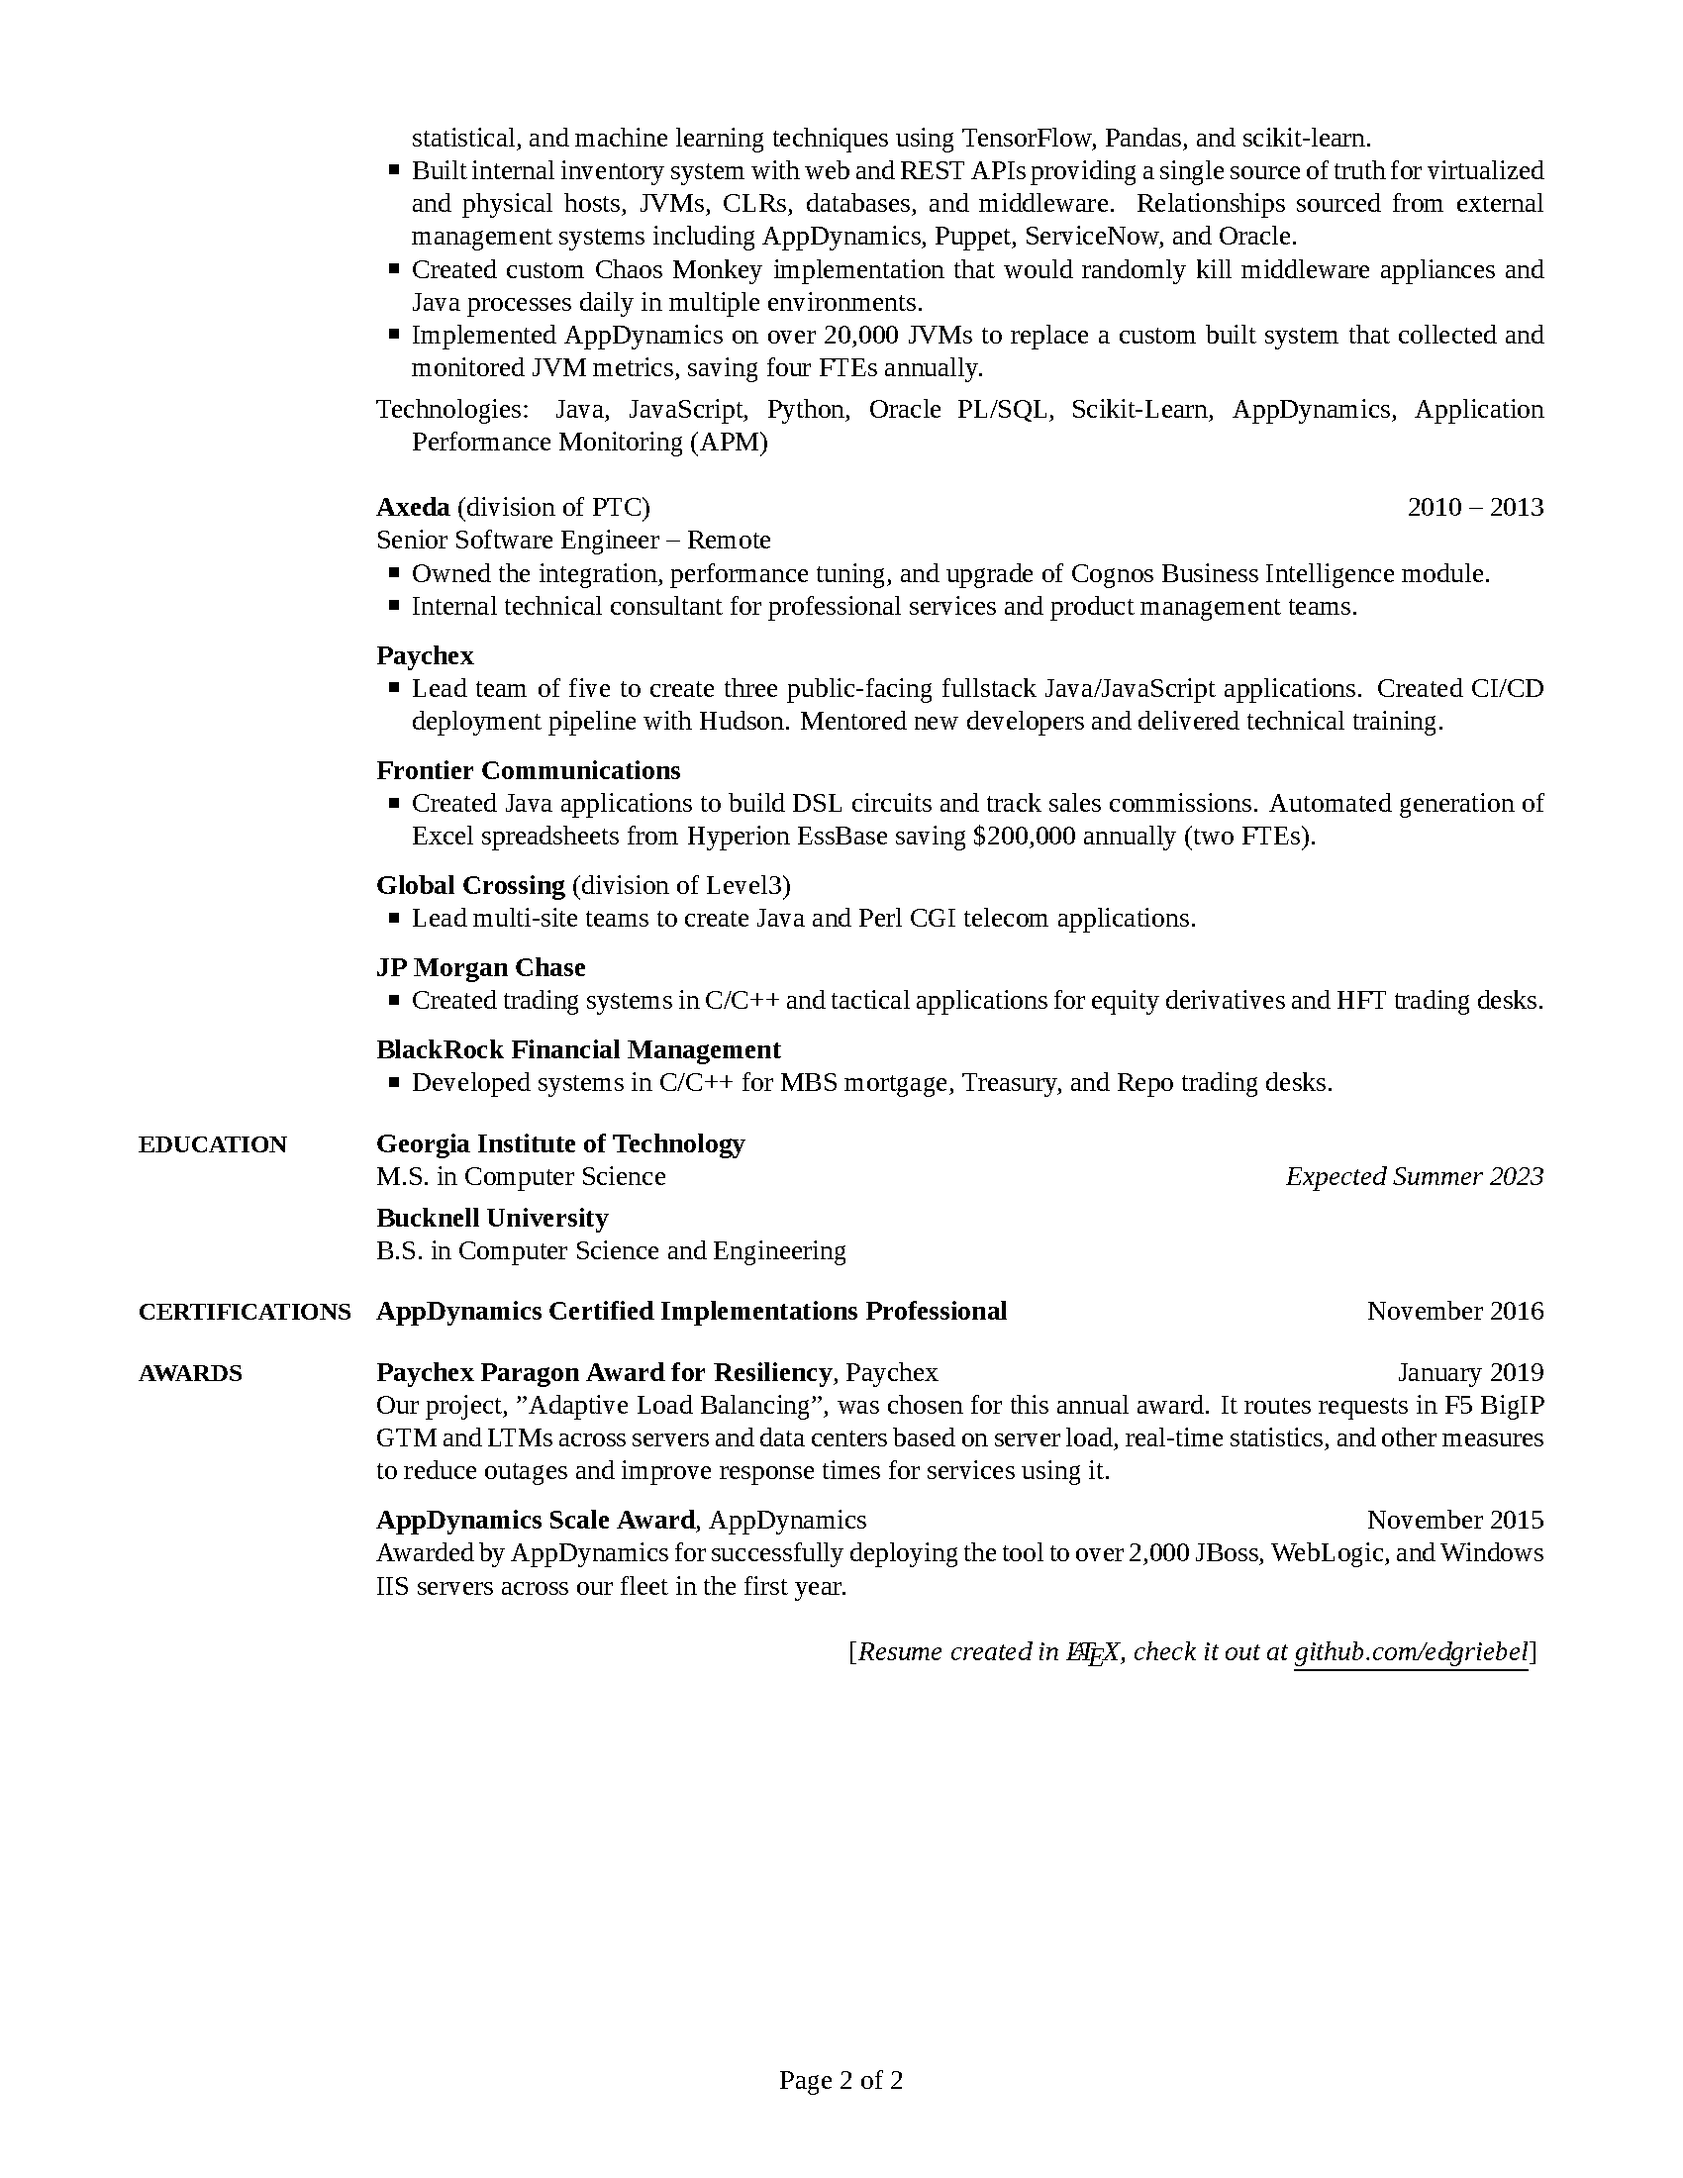
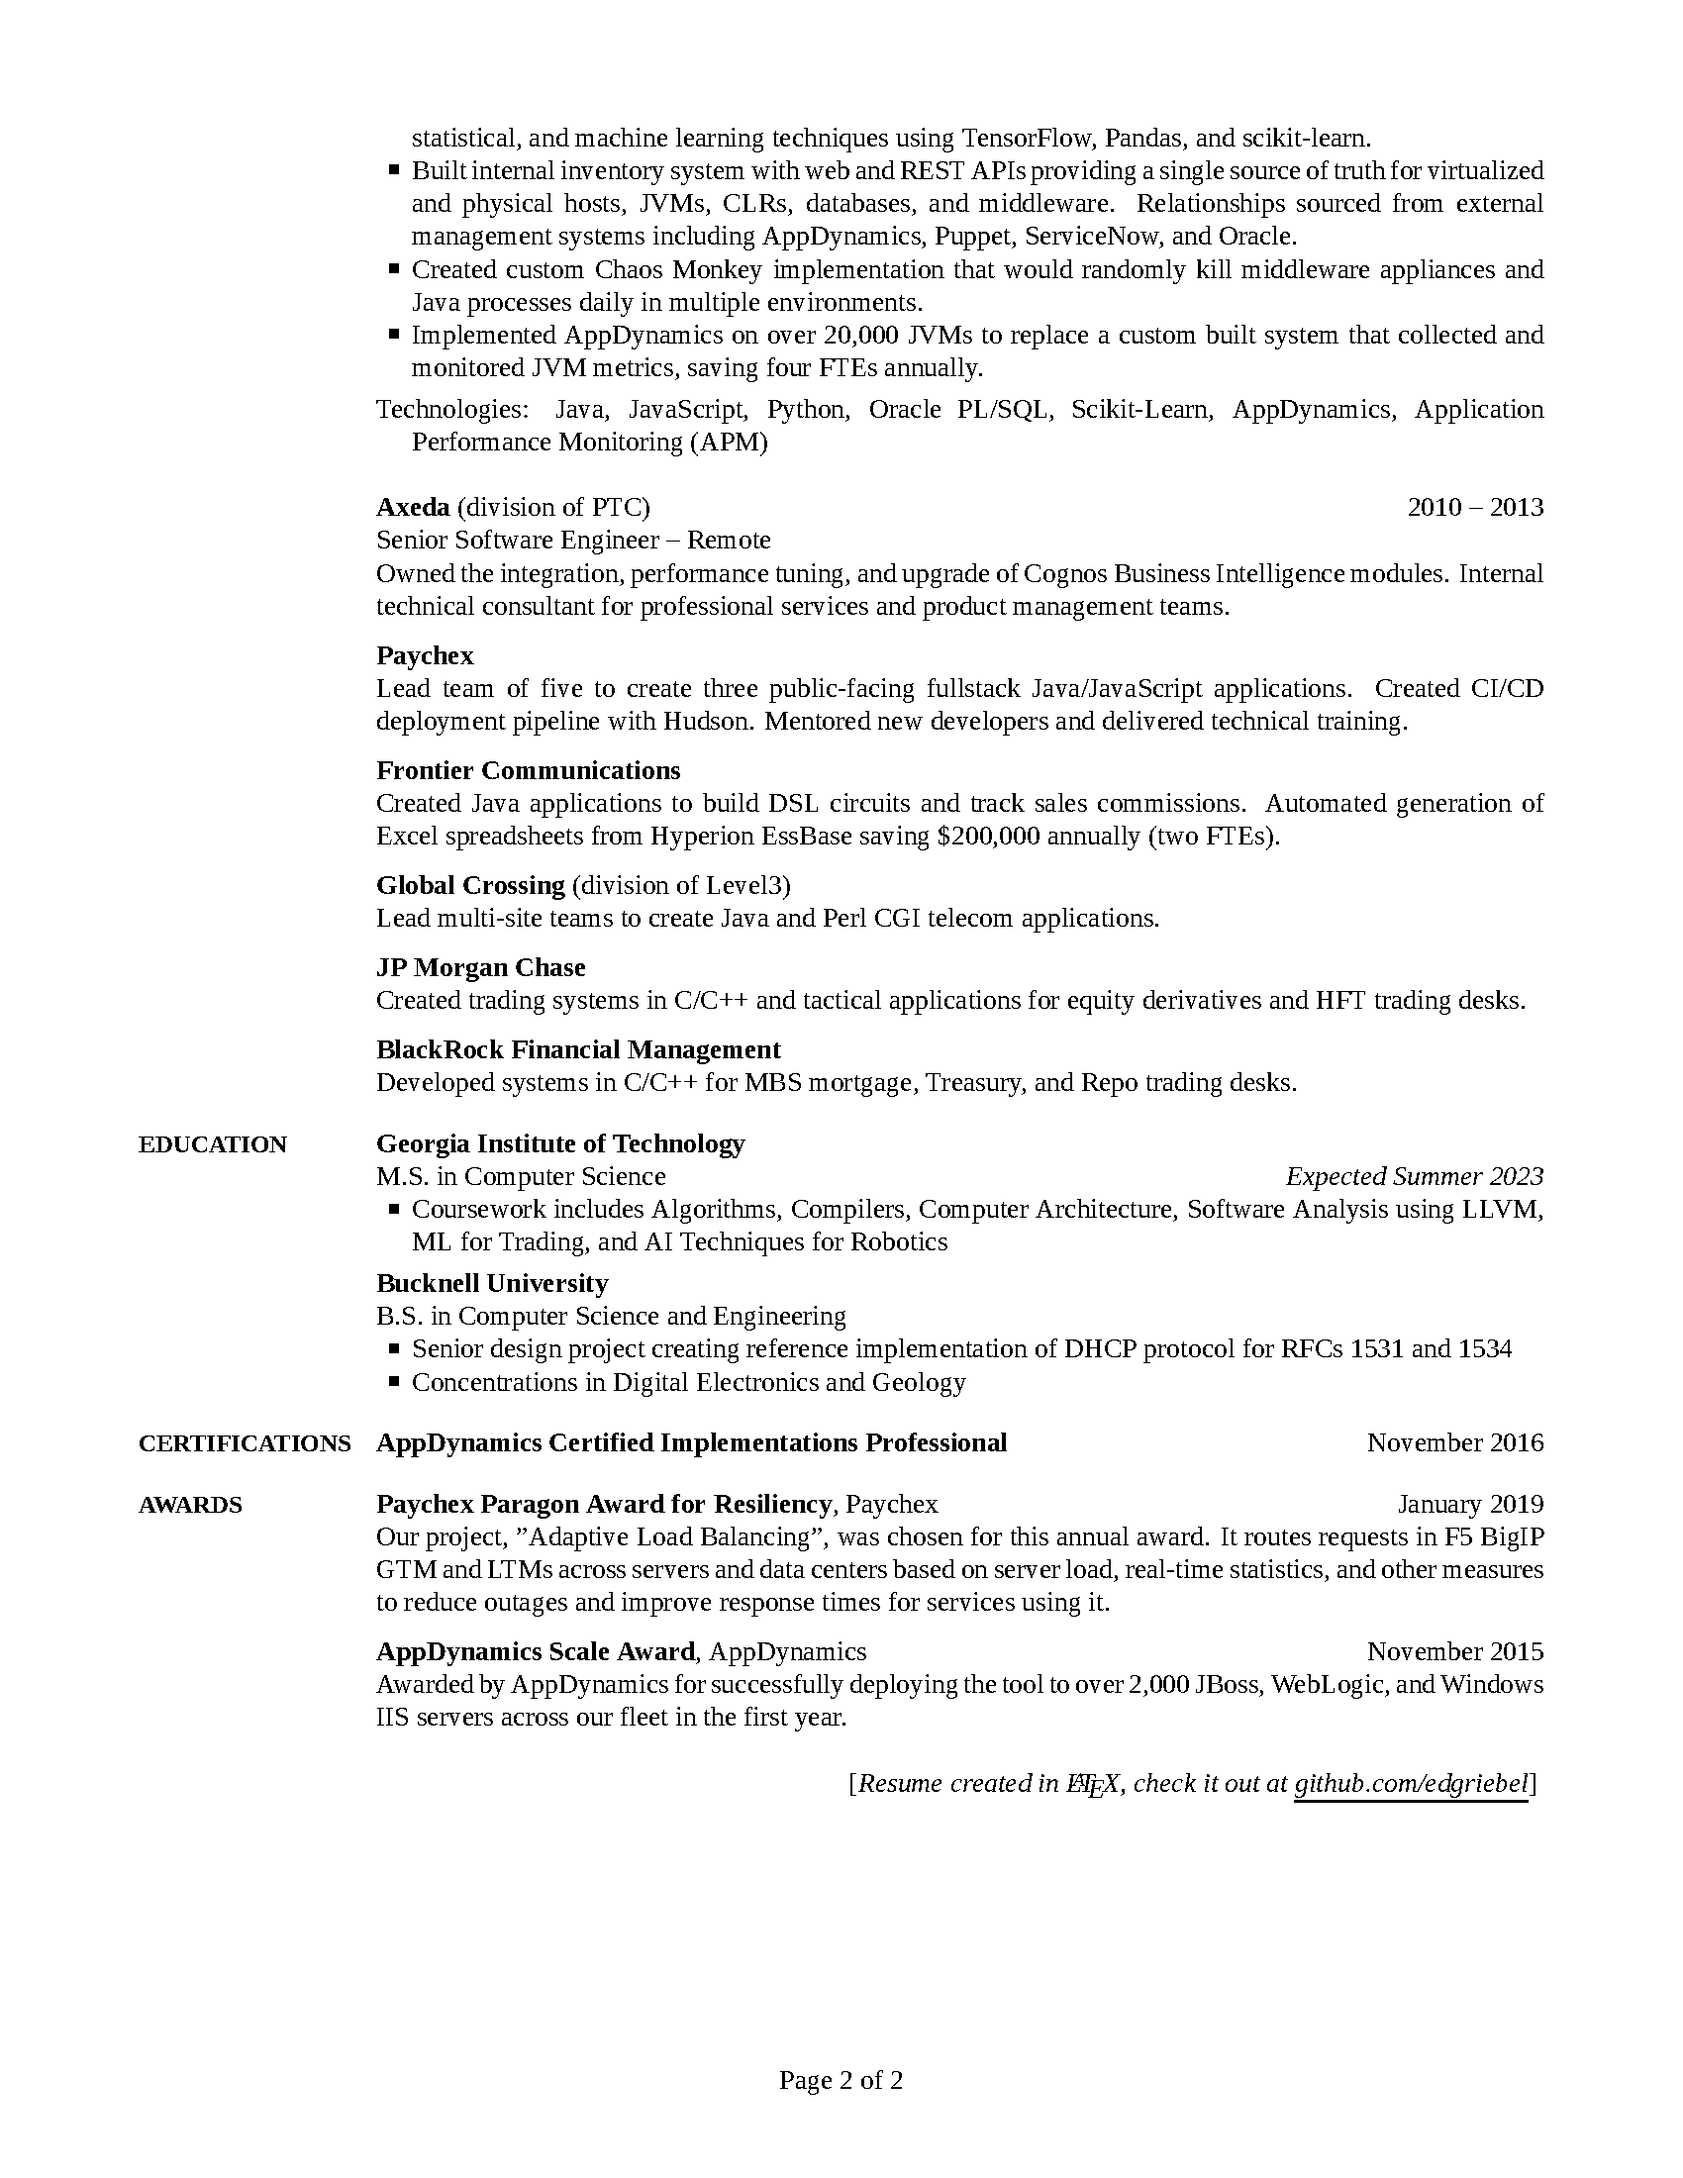
Removed bullets for old jobs, added MS coursework

diff --git a/Ed_Griebel_CV.tex b/Ed_Griebel_CV.tex
@@ -367,9 +367,9 @@ Rochester, New York
 \begin{Detail}
 %% \BulletItem
 %% Fullstack Java/Oracle/Groovy/ActiveMQ JMS developer for IoT system. 
-\BulletItem
-Owned the integration, performance tuning, and upgrade of Cognos Business Intelligence module.
-\BulletItem
+%% \BulletItem
+Owned the integration, performance tuning, and upgrade of Cognos Business Intelligence modules.
+%% \BulletItem
 Internal technical consultant for professional services and product management teams.
 
 %% \Gap
@@ -397,10 +397,10 @@ Rochester, New York
 \fi
 
 \begin{Detail}
-\BulletItem
+%% \BulletItem
 Lead team of five to create Java/JavaScript front end and webapp for an existing internal fat client, and upgraded two existing web applications to contemporary standards. Used Hudson to create a CI/CD pipeline for Dev and QA deployments.
 
-\BulletItem
+%% \BulletItem
 Mentored new developers and delivered technical training.
 %% 2021-05-02 TMI
 \iffalse
@@ -429,7 +429,7 @@ Rochester, New York
 \fi
 
 \begin{Detail}
-\Item
+%% \Item
 Created Java applications to build DSL circuits and track sales commissions\comment{; CruiseControl used for Continuous Integration}. 
 Automated generation of \comment{20} Excel spreadsheets from Hyperion EssBase saving \$200,000 annually (two FTEs).
 
@@ -454,7 +454,7 @@ Rochester, New York
 \fi
 
 \begin{Detail}
-\Item
+%% \Item
 Lead multi-site teams to create Java and Perl CGI telecom applications.
 %%Lead for multi-site team creating Java application to reconcile network and order entry inventory and Perl CGI application to automate creating circuits on ATM and Frame Relay networks.
 
@@ -479,7 +479,7 @@ New York, New York
 \fi
 
 \begin{Detail}
-\Item
+%% \Item
 Created trading systems in C/C++ and tactical applications for equity derivatives and HFT trading desks.
 
 %% Tech from 20 years ago would probably be considered not relevant
@@ -505,7 +505,7 @@ New York, New York
 \fi
 
 \begin{Detail}
-\Item
+%% \Item
 Developed systems in C/C++ for MBS mortgage, Treasury, and Repo trading desks.
 %%\Gap
 %%Technologies: C, C++, Sybase, tcl, ksh, Motif, X11
@@ -544,7 +544,7 @@ Technologies: Sybase, ksh
 {\textbf{Paychex}}
 
 \begin{Detail}
-\BulletItem
+%% \BulletItem
 	Lead team of five to create three public-facing fullstack Java/JavaScript applications.
 	Created CI/CD deployment pipeline with Hudson.
 	Mentored new developers and delivered technical training.
@@ -556,7 +556,7 @@ Technologies: Sybase, ksh
 {\textbf{Frontier Communications}}
 
 \begin{Detail}
-\BulletItem
+%% \BulletItem
 Created Java applications to build DSL circuits and track sales commissions\comment{; CruiseControl used for Continuous Integration}.  Automated generation of \comment{20} Excel spreadsheets from Hyperion EssBase saving \$200,000 annually (two FTEs).
 \end{Detail}
 
@@ -566,7 +566,7 @@ Created Java applications to build DSL circuits and track sales commissions\comm
 {\textbf{Global  Crossing} (division of Level3)}
 
 \begin{Detail}
-\BulletItem
+%% \BulletItem
 Lead multi-site teams to create Java and Perl CGI telecom applications.
 \end{Detail}
 
@@ -575,7 +575,7 @@ Lead multi-site teams to create Java and Perl CGI telecom applications.
 \href{http://www.jpmorganchase.com/}
 {\textbf{JP Morgan Chase}}
 \begin{Detail}
-\BulletItem
+%% \BulletItem
 Created trading systems in C/C++ and tactical applications for equity derivatives and HFT trading desks.
 \end{Detail}
 
@@ -584,7 +584,7 @@ Created trading systems in C/C++ and tactical applications for equity derivative
 \href{http://www.blackrock.com/}
 {\textbf{BlackRock Financial Management}}
 \begin{Detail}
-\BulletItem
+%% \BulletItem
 Developed systems in C/C++ for MBS mortgage, Treasury, and Repo trading desks.
 %%\Gap
 %%Technologies: C, C++, Sybase, tcl, ksh, Motif, X11
@@ -608,8 +608,9 @@ M.S. in Computer Science
 \hfill 
 \textit{Expected Summer 2023}
 
-%% \BulletItem
+\BulletItem
 %% Concentrations in Computing Systems and Machine Learning
+Coursework includes Algorithms, Compilers, Computer Architecture, Software Analysis using LLVM, ML for Trading, and AI Techniques for Robotics
 
 \Gap
 
@@ -628,7 +629,6 @@ B.S. in Computer Science and Engineering
 \DatestampYM{1988}{09} --
 \DatestampYM{1992}{06}
 \fi
-\iffalse
 \begin{Detail}
 \BulletItem
 Senior design project creating reference implementation of DHCP protocol for RFCs 1531 and 1534
@@ -639,7 +639,6 @@ Concentrations in Digital Electronics and Geology
 
 %% Technologies: Computer Science, C, VAX assembly, DHCP, TCP-IP, Digital Electronics
 \end{Detail}
-\fi
 
 %%%%%%%%%%%%
 %% CERTIFICATIONS %%
